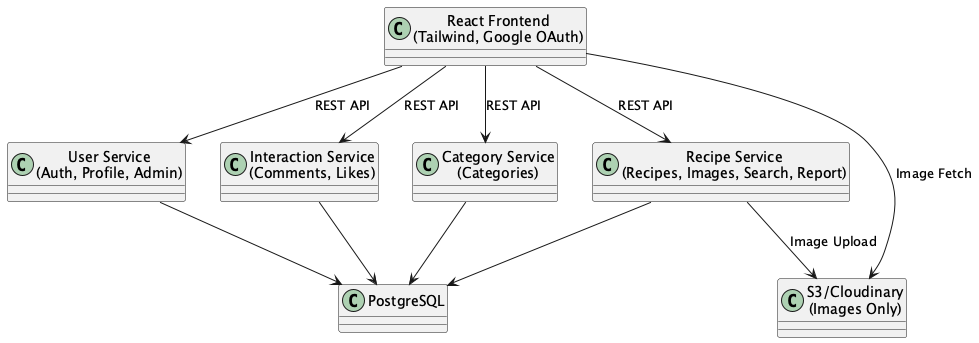
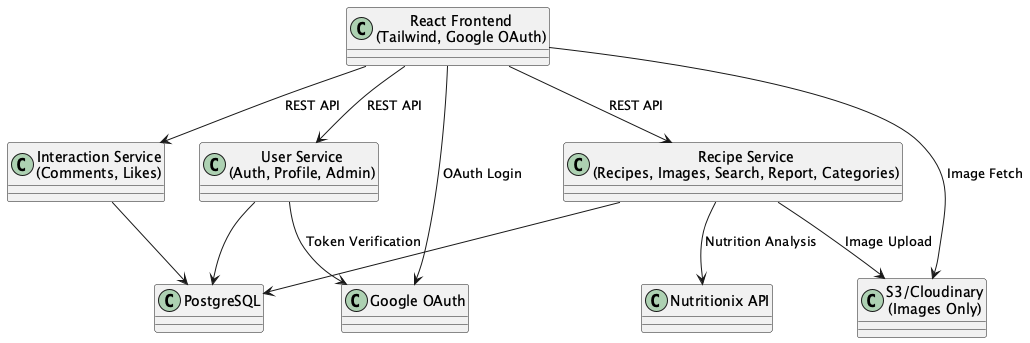
Refactor: Remove Category Service, clarify category management in Recipe Service, update docs and diagrams, add User Service README, clean up deployment and costs docs

diff --git a/README.md b/README.md
@@ -1,80 +1,97 @@
 # GreenForked 🌱
 
-> A modern vegan recipe platform for sharing, discovering, and engaging with plant-based recipes.
+## System Name
+GreenForked
 
-[![License: MIT](https://img.shields.io/badge/License-MIT-green.svg)](https://opensource.org/licenses/MIT)
+## Contributors
+- Sharang Gupta ([GitHub](https://github.com/sharanggupta))
 
----
+## License
+MIT License – see [LICENSE](LICENSE)
 
-## About GreenForked
-GreenForked is a scalable, modern web application for vegan food lovers, bloggers, and the plant-based community. Users can upload, browse, like, and comment on vegan recipes, with a clean, mobile-friendly interface and robust backend.
+## Background Context
+This is a TDD Sandbox Project created as part of the Optivem Journal TDD in Legacy Code series by Valentina Jemuović. The goal is to practice TDD and Hexagonal Architecture in a safe, simulated environment before applying these practices to real-life projects.  
+- [Optivem Journal](https://journal.optivem.com/)
+- [Sandbox Project Dashboard](https://journal.optivem.com/p/sandbox-project-dashboard)
 
----
+## Project Board
+- [GitHub Project Board](https://github.com/users/sharanggupta/projects/2)
 
-## 🟢 Microservices Architecture
-- **User Service**: Registration, Google OAuth, profile management, admin actions
-- **Recipe Service**: Recipe CRUD, image upload, search/filter, reporting
-- **Interaction Service**: Comments, likes, user engagement
-- **Category Service**: Category management
-
----
-
-## 🖥 Tech Stack
-- **Frontend**: React (TypeScript), Tailwind CSS, Google OAuth
-- **Backend**: Spring Boot (Java 17+), PostgreSQL, REST APIs
-- **Media Storage**: S3/Cloudinary (images only)
-- **Deployment**: Docker, Kubernetes, GitHub Actions
-
----
-
-## 🎨 Color Palette & Branding
-- **Primary Green**: #2ecc71
-- **Accent Green**: #27ae60
-- **Background**: #ffffff
-- **Text**: #222222
-- **Subtle Gray**: #f7f7f7
-- **CTA/Highlight**: #00b894
-- **Error/Alert**: #e17055
-
----
-
-## 🚀 Features
+## Use Cases
 - Register/login with Google
-- Create, edit, delete vegan recipes (images only)
+- Create, edit, delete vegan recipes
 - Browse, search, and filter recipes
 - Like and comment on recipes
 - User profiles with bio, image, social links
 - Admin moderation (ban, warn, delete users/recipes)
-- Report inappropriate recipes
-- Category management
+- Report inappropriate recipes and users
+- Category management (recipes can be organized and filtered by category; admins can manage the list of categories)
+- Nutrition analysis (calorie calculation via Nutritionix API)
 
----
+**Actors:** Visitor, User, Blogger, Admin  
+**[Use Case Diagram](diagrams/use-case-overview.png)**
 
-## 📦 Project Structure
-```
-GreenForked/
-├── services/
-│   ├── user-service/
-│   ├── recipe-service/
-│   ├── interaction-service/
-│   └── category-service/
-├── frontend/
-├── deployment/
-├── diagrams/
-├── docs/
-└── ...
-```
+## External Systems
+- Google OAuth ([Google Identity](https://developers.google.com/identity)) – Authentication
+- Cloudflare Images ([Cloudflare Images](https://www.cloudflare.com/products/images/)) – Media Storage
+- Nutritionix API ([nutritionix.com](https://www.nutritionix.com/business/api)) – Nutrition analysis
 
----
+## System Architecture Style
+Frontend + Microservice Backend
 
-## 📝 Documentation
-- [Architecture & Use Cases](docs/architecture/ARCHITECTURE_DESCRIPTION.md)
+## Architecture Diagram
+![Architecture Diagram](diagrams/architecture-overview.png)
+
+## Tech Stack
+- **Frontend:** React (TypeScript), Tailwind CSS
+- **Backend:** Spring Boot (Java 17+), PostgreSQL, REST APIs
+- **Media Storage:** Cloudflare Images
+- **Nutrition Analysis:** Nutritionix API
+- **Deployment:** Docker, Kubernetes, GitHub Actions
+
+## Repository Strategy
+Mono-repo (all components in one repository)
+
+## Branching Strategy
+Feature Branching
+
+## Deployment Model
+- Local (Docker Compose, Helm for Kubernetes)
+- [UAT/Production planned for future]
+
+## Component Repositories
+- This is a mono-repo. All services and frontend are in this repository.
+
+## Tickets
+- User stories and tasks are tracked in the [Project Board](https://github.com/users/sharanggupta/projects/2).
+
+## Environments
+- Local (Docker Compose)
+- [UAT/Production planned for future]
+
+## Manual Deployment
+See [Deployment Guide](docs/deployment/DEPLOYMENT_GUIDE.md)
+
+## Manual Testing
+See [Manual Test Procedure](docs/deployment/MANUAL_TEST_PROCEDURE.md)
+
+## Documentation
+- [Architecture Description](docs/architecture/ARCHITECTURE_DESCRIPTION.md)
+- [Use Case Description](docs/architecture/USE_CASE_DESCRIPTION.md)
 - [Deployment Guide](docs/deployment/DEPLOYMENT_GUIDE.md)
 - [Manual Test Procedure](docs/deployment/MANUAL_TEST_PROCEDURE.md)
 
+## Internal Project Demo
+(Skipped for individual project)
+
 ---
 
-## 🖼 Key Diagrams
+## About
+GreenForked is a scalable, modern web application for vegan food lovers, bloggers, and the plant-based community. Users can upload, browse, like, and comment on vegan recipes, with a clean, mobile-friendly interface and robust backend.
+
+---
+
+## Key Diagrams
 
 **Architecture Overview**
 
@@ -90,15 +107,11 @@ GreenForked/
 
 ---
 
-## 🗂 Contributing
-- See [CONTRIBUTING.md](CONTRIBUTING.md) for guidelines
-- Use the color palette and branding for all UI/UX
+*Built with ❤ by the GreenForked community*
 
----
+## Microservices
+- **User Service**: Handles authentication (Google OAuth), user registration, profile management, and admin actions
+- **Recipe Service**: Manages recipe CRUD, image uploads, search/filter, reporting, nutrition, and category management (including creating, editing, deleting, and listing recipe categories for organizing and filtering recipes)
+- **Interaction Service**: Manages comments and likes on recipes
 
-## 📄 License
-MIT License – see [LICENSE](LICENSE)
-
----
-
-*Built with ❤ by the GreenForked community* 
+**[Use Case Diagram](diagrams/use-case-overview.png)** 

diff --git a/docs/architecture/ARCHITECTURE_DESCRIPTION.md b/docs/architecture/ARCHITECTURE_DESCRIPTION.md
@@ -5,9 +5,8 @@ GreenForked is a microservices-based vegan recipe platform, designed for scalabi
 
 ## Microservices
 - **User Service**: Handles authentication (Google OAuth), user registration, profile management, and admin actions.
-- **Recipe Service**: Manages recipe CRUD, image uploads, search/filter, and reporting.
+- **Recipe Service**: Manages recipe CRUD, image uploads, search/filter, reporting, nutrition, and category management (recipes can be organized and filtered by category; admins can manage the list of categories).
 - **Interaction Service**: Manages comments and likes on recipes.
-- **Category Service**: Handles recipe categories (CRUD, admin only).
 
 ## Data Storage
 - **PostgreSQL**: Each service owns its tables.
@@ -32,24 +31,24 @@ GreenForked is a microservices-based vegan recipe platform, designed for scalabi
 - Error/Alert: #e17055
 
 ## Architecture Diagram
-See [../architecture-overview.png](../architecture-overview.png)
+See [../../diagrams/architecture-overview.png](../../diagrams/architecture-overview.png)
 
 ## Use Case Diagram
-See [../use-case-overview.png](../use-case-overview.png)
+See [../../diagrams/use-case-overview.png](../../diagrams/use-case-overview.png)
 
 ## ER Diagram
-See [../er-diagram.png](../er-diagram.png)
+See [../../diagrams/er-diagram.png](../../diagrams/er-diagram.png)
 
 ## 🖼 Key Diagrams
 
 **Architecture Overview**
 
-![Architecture Diagram](../architecture-overview.png)
+![Architecture Diagram](../../diagrams/architecture-overview.png)
 
 **Use Case Overview**
 
-![Use Case Diagram](../use-case-overview.png)
+![Use Case Diagram](../../diagrams/use-case-overview.png)
 
 **ER Diagram**
 
-![ER Diagram](../er-diagram.png) 
+![ER Diagram](../../diagrams/er-diagram.png) 

diff --git a/services/user-service/README.md b/services/user-service/README.md
@@ -1,0 +1,21 @@
+# GreenForked User Service
+
+## Responsibilities
+- Handle user registration and login via Google OAuth
+- Manage user profiles (bio, image, social links)
+- Admin actions (ban, warn, delete users)
+
+## API
+- Register/Login with Google
+- Get/Edit user profile
+- Admin: Ban/Warn/Delete user
+
+## Database
+- User table (see [ER diagram](../../diagrams/er-diagram.png))
+
+## Authentication
+- All authentication is handled via Google OAuth. The service verifies tokens and manages user sessions.
+
+## Setup
+- Spring Boot, PostgreSQL
+- See root README for setup instructions 

diff --git a/docs/deployment/MANUAL_TEST_PROCEDURE.md b/docs/deployment/MANUAL_TEST_PROCEDURE.md
@@ -1,17 +1,4 @@
 ---
 
-## 🖼 Key Diagrams
+## 🖼 Manual Testing Instructions
 
-**Architecture Overview**
-
-![Architecture Diagram](../../diagrams/architecture-overview.png)
-
-**Use Case Overview**
-
-![Use Case Diagram](../../diagrams/use-case-overview.png)
-
-**ER Diagram**
-
-![ER Diagram](../../diagrams/er-diagram.png)
-
---- 

diff --git a/docs/deployment/DEPLOYMENT_GUIDE.md b/docs/deployment/DEPLOYMENT_GUIDE.md
@@ -1,17 +1,4 @@
 ---
 
-## 🖼 Key Diagrams
+## 🖼 Deployment Instructions
 
-**Architecture Overview**
-
-![Architecture Diagram](../../diagrams/architecture-overview.png)
-
-**Use Case Overview**
-
-![Use Case Diagram](../../diagrams/use-case-overview.png)
-
-**ER Diagram**
-
-![ER Diagram](../../diagrams/er-diagram.png)
-
---- 

diff --git a/docs/architecture/USE_CASE_DESCRIPTION.md b/docs/architecture/USE_CASE_DESCRIPTION.md
@@ -17,4 +17,4 @@
 - Admin: Ban/warn/delete users, delete/moderate recipes, manage categories
 
 ## Use Case Diagram
-- See [../use-case-overview.png](../use-case-overview.png) 
+- See [../../diagrams/use-case-overview.png](../../diagrams/use-case-overview.png) 
